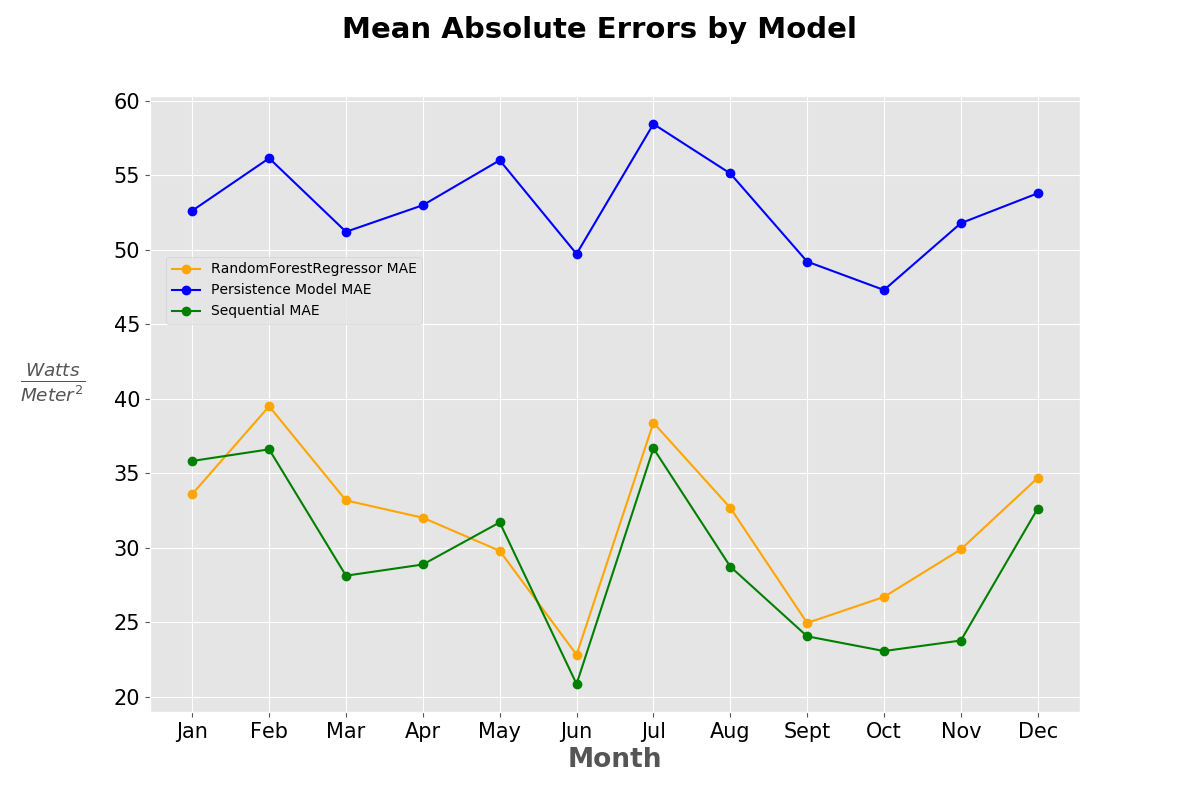
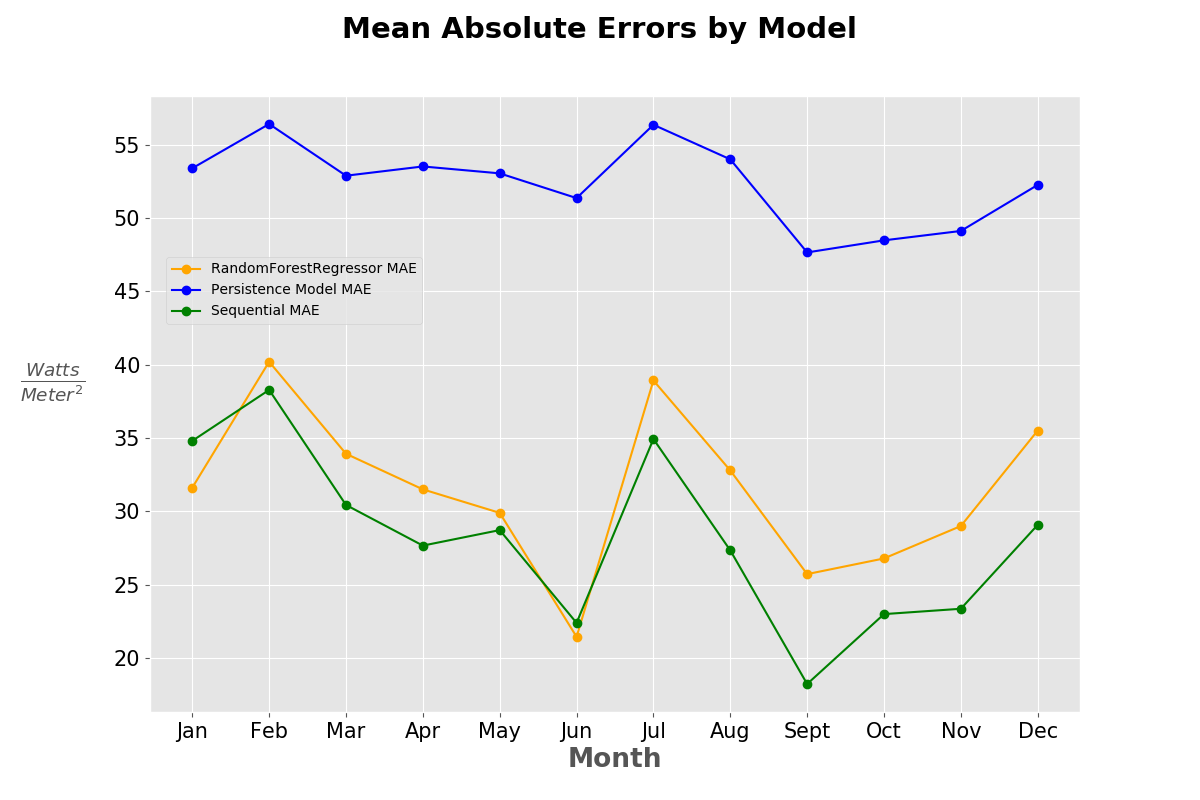
add new plots to report

diff --git a/Predicting_DNI.md b/Predicting_DNI.md
@@ -97,9 +97,9 @@ A Multi Layer Perceptron (MLP) was developed a few years ago to predict irradian
 
 Both the Random Forest and the MLP were able to beat the Persistence Model with respect to both RMSE and MAE across all months in the dataset, shown in the two graphs below. Although both models perform similarly, the MLP does have a slight edge on the Random Forest, most noticeably in the later months of the year.
 
-![](images/rf_v_pm_test_errors.png)
+![](images/mean_absolute_errors.png)
 
-![](images/nn_v_pm_test_errors.png)
+![](images/root_mean_squared_errors.png)
 
 Once thing I was curious about was whether including multiple years in the dataset that the MLP was trained on had a noticeable effect on the errors. For every group of lines in the plot below, I varied whether 1,2,3 ... etc. years were included in the dataset that the model trained and tested on. The errors lines show that the model is relatively robust to the number of years that are included in the dataset.
 
